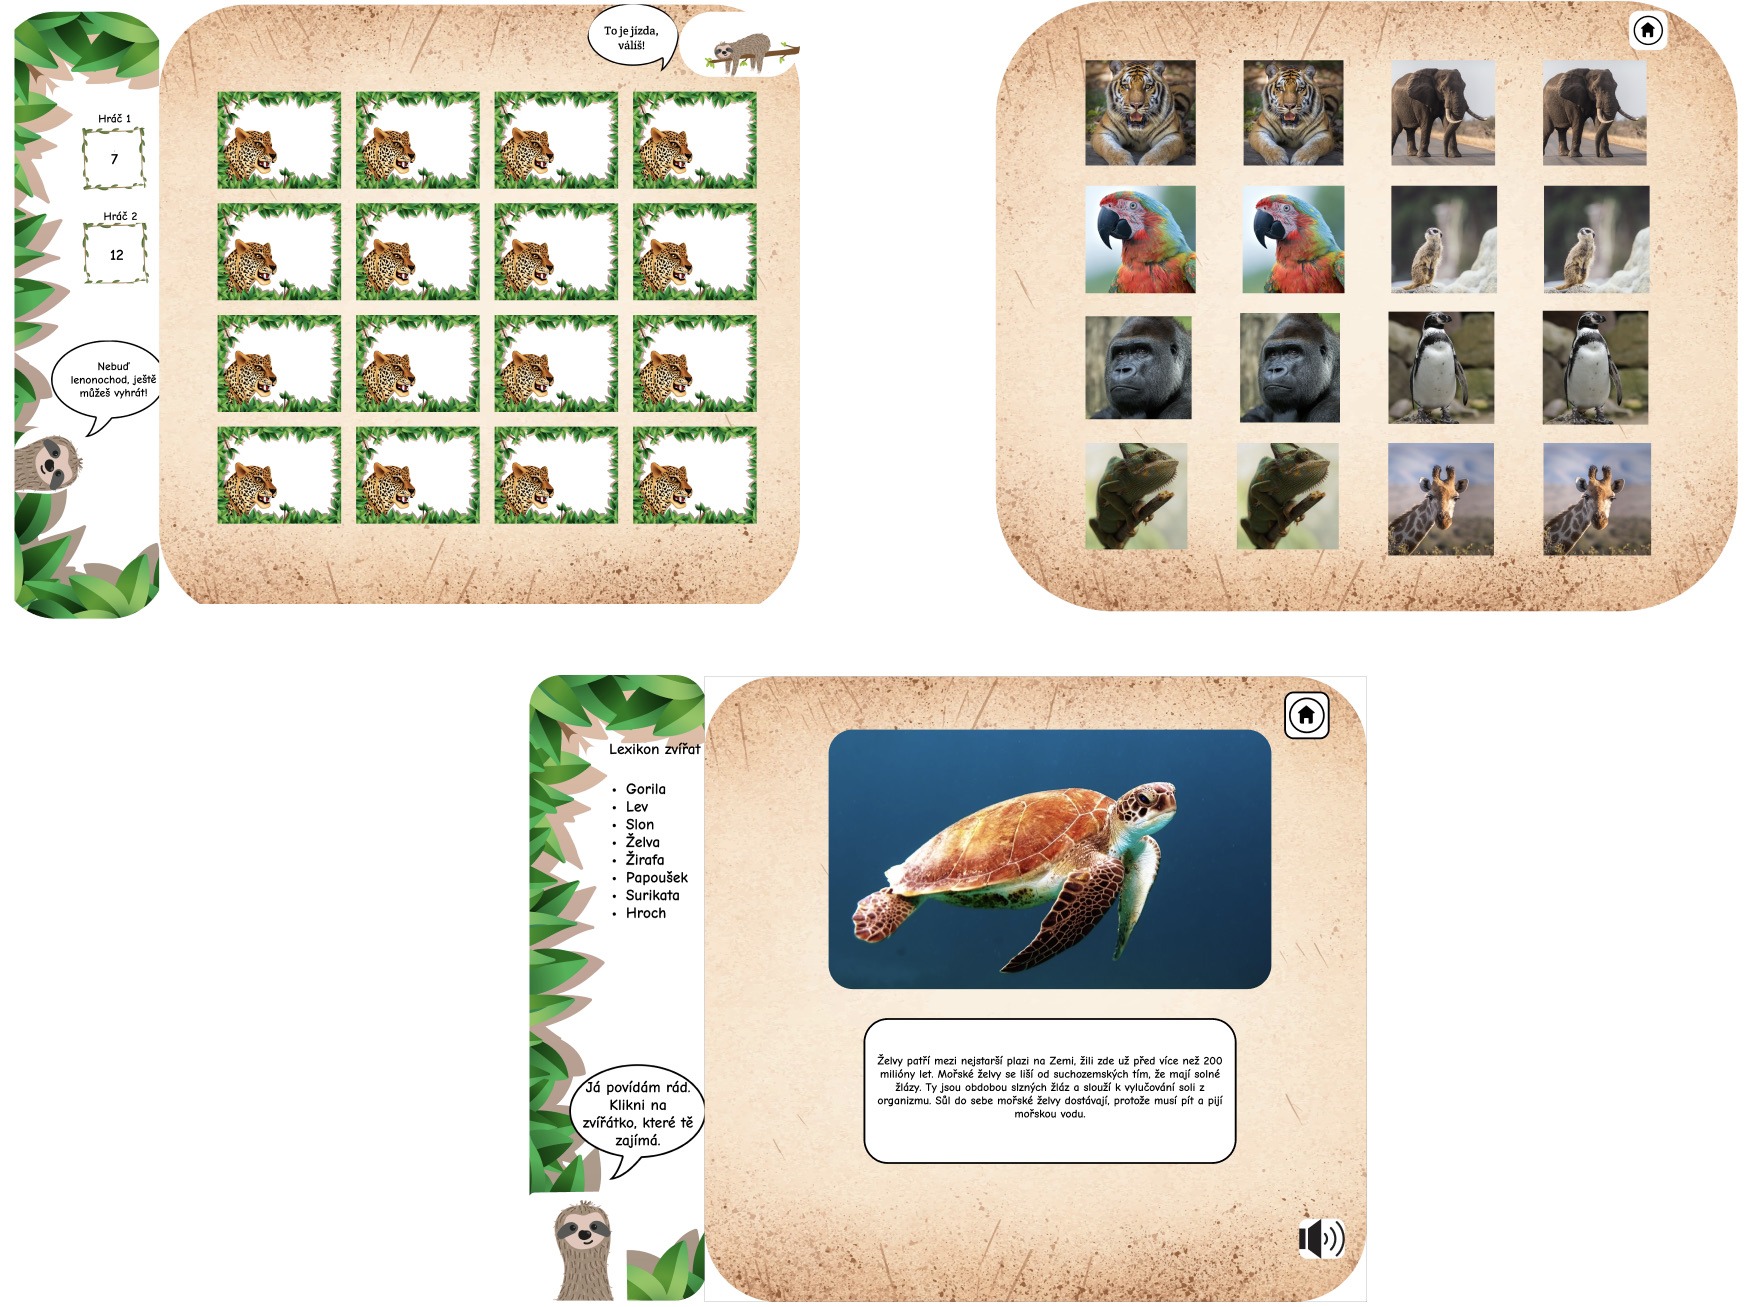
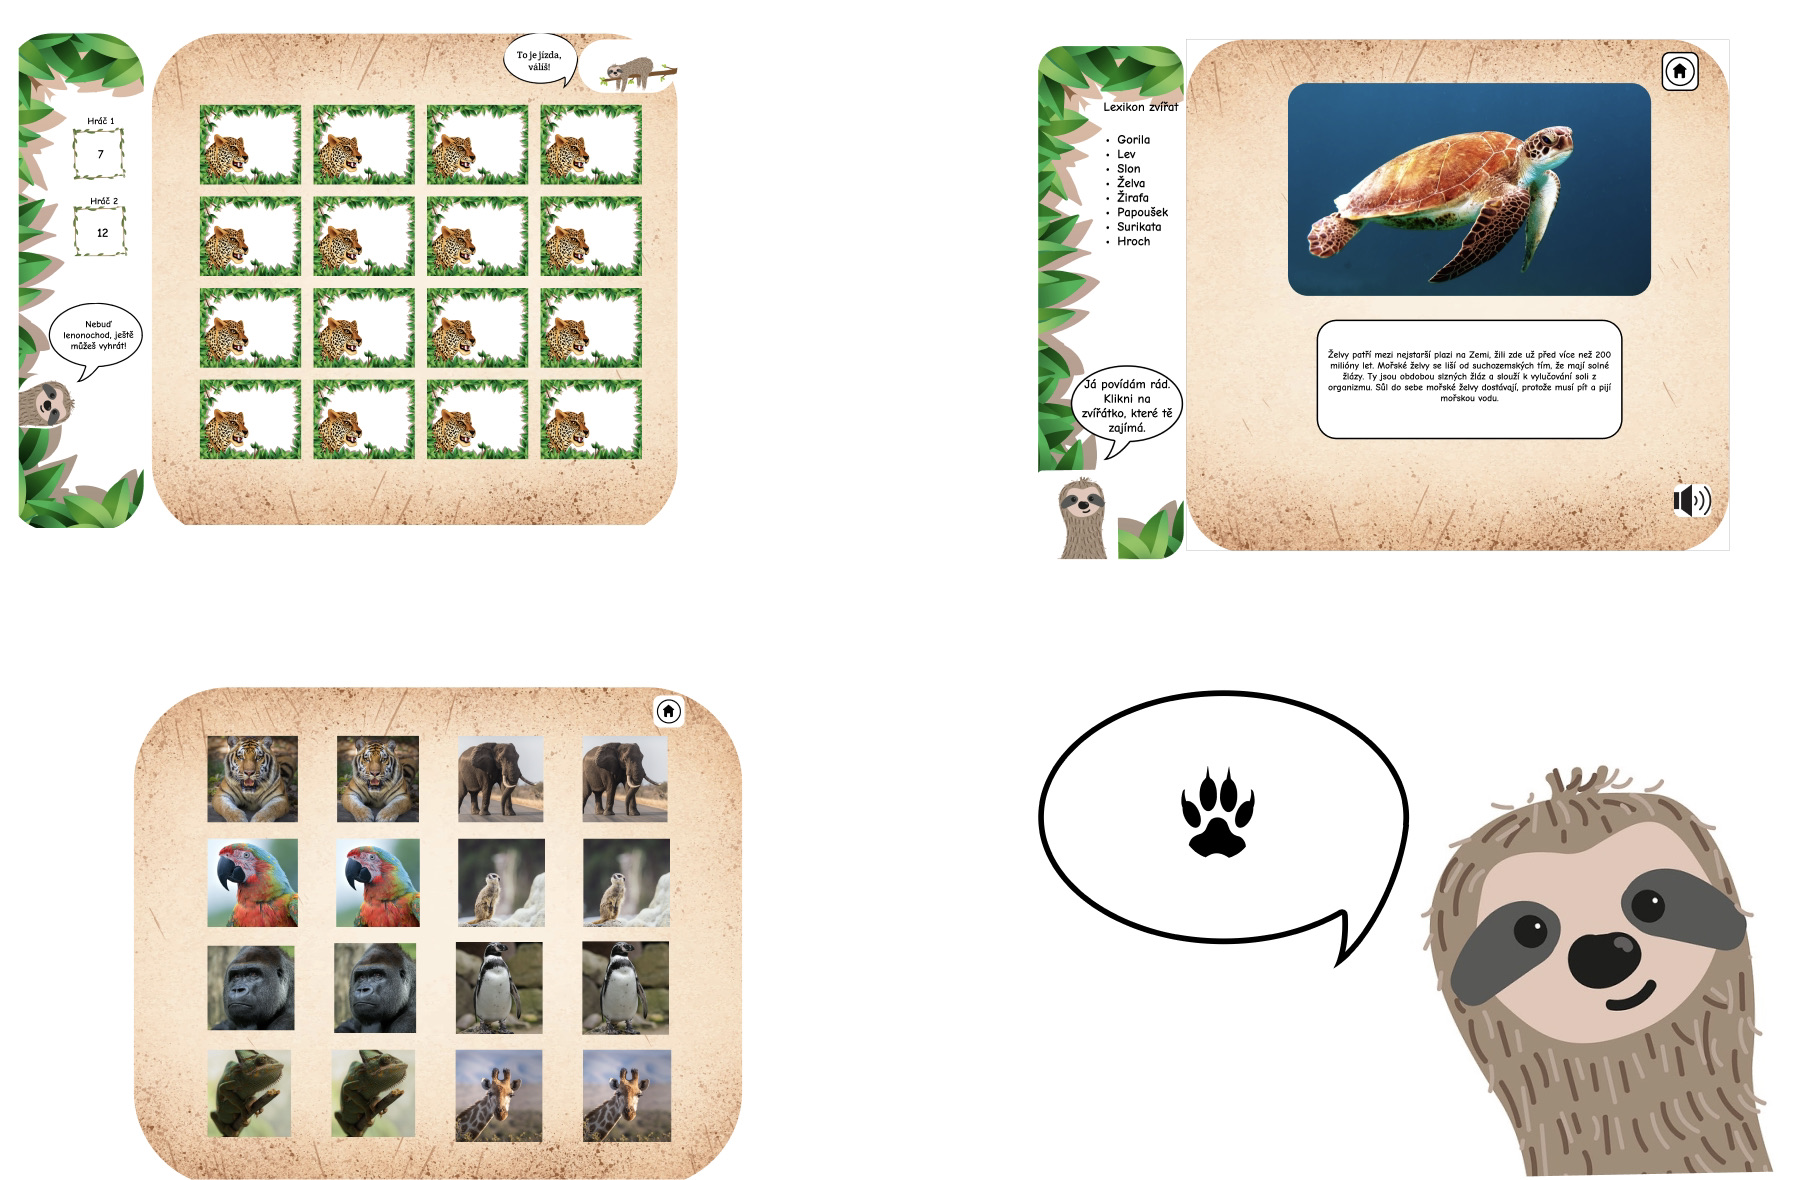
finální úprava2

diff --git a/style.css b/style.css
@@ -31,12 +31,14 @@ header {
 a {
   color: black;
   text-decoration: none;
-  margin-inline-start: 40px;
-  background-color: rgb(107, 135, 135);
+  margin-inline-start: 50px;
+  background-color: rgb(215, 223, 66);
   padding: 10px;
-  background-color: rgb(188, 148, 148);
+  background-color: (188, 148, 148);
   border-radius: 20px;
   font-family: 'Courier New', Courier, monospace color;
+  font-size: 15px;
+  justify-content: flex-end;
 
 }
 
@@ -54,7 +56,7 @@ h1 {
 .info_about_project {
   display: flex;
   align-items: center;
-  max-width: 25rem;
+  max-width: 40rem;
   margin: 70px auto 50px;
   border-radius: 20px;
 }
@@ -134,7 +136,7 @@ div.logo_git img {
 .name {
   display: flex;
   justify-content: center;
-  font-size: 48px;
+  font-size: 45px;
   text-align: center;
   font-family: cursive;
 }

diff --git a/about.html b/about.html
@@ -19,7 +19,8 @@
     </header>
     <div class="info_about_project">
       <div>
-        <h1>Jungle pexeso</h1>
+        <h1></h1>
+        <img class="frame3" src="Img/frame3.jpeg" alt="desktop" />
 
         <img class="frame" src="Img/desktop.jpeg" alt="desktop" />
       </div>

diff --git a/index.html b/index.html
@@ -19,7 +19,7 @@
     </header>
     <div class="info_about_project">
       <div>
-        <h1>Jungle pexeso</h1>
+        <h1></h1>
 
         <img class="frame" src="Img/frame.jpeg" alt="desktop" />
       </div>
